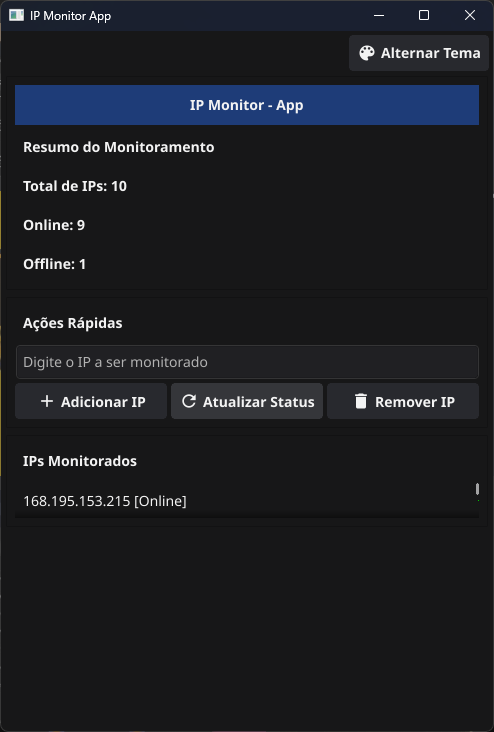
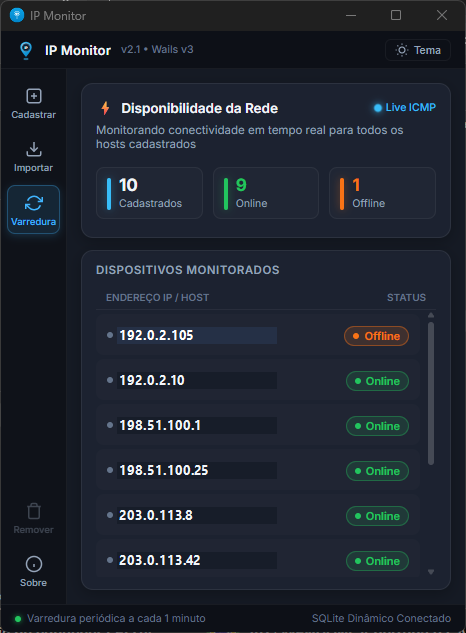
docs: update README.md and add dark/light screenshots with fictitious IPs

diff --git a/frontend/style.css b/frontend/style.css
@@ -623,11 +623,6 @@ body.light-theme .modal-close-x:hover {
     color: var(--text-secondary);
 }
 
-.input-row {
-    display: flex;
-    gap: 8px;
-}
-
 .input-wrapper {
     position: relative;
     display: flex;
@@ -712,19 +707,8 @@ body.light-theme .btn-modal-cancel:hover {
     cursor: not-allowed;
 }
 
-.btn-add {
-    background: rgba(56, 189, 248, 0.12);
-    border: 1px solid var(--accent-cyan);
-    color: var(--accent-cyan);
-}
-
-.btn-add:hover {
-    background: var(--accent-cyan);
-    color: #0d121c;
-}
-
 /* --------------------------------------------------------------------------
-   Card 4: Lista de Hosts Monitorados (Fluent Table)
+   Card 3: Lista de Hosts Monitorados (Fluent Table)
    -------------------------------------------------------------------------- */
 .hosts-section {
     flex: 1;
@@ -738,42 +722,6 @@ body.light-theme .btn-modal-cancel:hover {
     display: flex;
     align-items: center;
     justify-content: space-between;
-}
-
-.header-tools {
-    display: flex;
-    align-items: center;
-    gap: 6px;
-}
-
-.btn-text-tool {
-    background: transparent;
-    border: 1px solid var(--border-subtle);
-    border-radius: var(--radius-sm);
-    color: var(--text-secondary);
-    padding: 4px 8px;
-    font-size: 11px;
-    font-weight: 500;
-    cursor: pointer;
-    display: flex;
-    align-items: center;
-    gap: 4px;
-    transition: all 0.15s ease;
-}
-
-.btn-text-tool:hover:not(:disabled) {
-    color: var(--text-primary);
-    border-color: var(--border-focus);
-}
-
-.btn-tool-danger:hover:not(:disabled) {
-    color: var(--accent-red);
-    border-color: var(--accent-red);
-}
-
-.btn-text-tool:disabled {
-    opacity: 0.35;
-    cursor: not-allowed;
 }
 
 .hosts-table-head {

diff --git a/README.md b/README.md
@@ -1,54 +1,89 @@
 # IP Monitor App
 
-Aplicativo moderno, ultra-leve e portátil em Go para monitoramento de IPs e conectividade com interface nativa [Wails v3](https://v3.wails.io) e persistência local em SQLite3.
+Aplicativo moderno, ultra-leve e portátil em Go para monitoramento de IPs e conectividade de rede em tempo real, construído com interface nativa em [Wails v3](https://v3.wails.io) e persistência local com SQLite3.
 
-## Funcionalidades
-- **Executável Único e Portátil**: Frontend e backend 100% integrados em um binário autocontido (`ipMonitorApp.exe` de ~13 MB).
-- **Zero DLLs ou Pastas Externas**: Funciona sobre o WebView2 nativo do Windows, sem necessidade de DLLs soltas na pasta.
-- **SQLite Dinâmico**: Detecta automaticamente a pasta de execução e cria/utiliza o banco `ipmonitor.db` localmente.
-- **Importação de JSON**: Importação em lote a partir de arquivos `.json` exportados, com validação e sanitização automática de hosts/URLs.
-- **Varredura Ativa e Periódica**: Monitoramento com ICMP Ping em tempo real e atualização periódica em background.
-- **Temas Modernos**: Alternância instantânea entre Tema Escuro e Tema Claro com alto contraste.
-- **Ações Rápidas**: Adicionar, Atualizar Todos, Importar JSON e Remover hosts selecionados.
-
-## Requisitos
-- Go 1.25 ou superior
-- Compilador C (GCC / MinGW-w64) no Windows (necessário para compilar o driver CGO do SQLite)
-- WebView2 Runtime (nativo no Windows 10 e Windows 11)
-
-## Compilação e Build
-
-O projeto utiliza um **Makefile unificado** que detecta automaticamente o sistema operacional da máquina (Windows, Linux ou macOS) e ajusta as flags de compilação, o nome do executável e as ferramentas necessárias:
-
-```sh
-make build   # Detecta o SO e compila o binário único e portátil
-make test    # Executa a suíte de testes unitários
-make run     # Compila e executa o aplicativo
-make clean   # Remove o executável gerado
-make info    # Exibe o sistema operacional detectado e configurações de build
-```
-
-> **No Windows**: Se você usa o MinGW-w64 (WinLibs), você pode executar diretamente `mingw32-make` ou `make`. O Makefile já configura automaticamente os caminhos do GCC e as variáveis `CGO_ENABLED=1` e flags para ocultar o console (`-H=windowsgui`).
->
-> **No Linux/macOS**: O executável é gerado como `ipMonitorApp` e sem terminal acoplado extra.
-
-## Como usar
-
-1. **Adicionar IP:**
-   - Digite o endereço IP no campo e clique em "Adicionar" (ou pressione Enter).
-2. **Atualizar Status:**
-   - Clique em "Atualizar Todos" para disparar uma nova verificação via ICMP Ping.
-3. **Importar JSON:**
-   - Clique em "Importar JSON" e selecione o arquivo `.json` desejado.
-4. **Remover IP:**
-   - Clique em uma linha da tabela para selecionar o host e clique em "Remover".
-5. **Alternar Tema:**
-   - Clique no botão no canto superior direito para alternar entre os temas Claro e Escuro.
-
-## Banco de Dados e Portabilidade
-- O arquivo `ipmonitor.db` é resolvido dinamicamente no diretório onde o executável foi iniciado.
-- Você pode mover o `ipMonitorApp.exe` para qualquer pasta ou pendrive; o banco de dados acompanhará a pasta de execução.
+Inspirado no design minimalista e moderno do Microsoft PC Manager, o **IP Monitor App** entrega uma experiência de alto padrão visual com temas Claro e Escuro, animações fluidas e zero dependências externas.
 
 ---
 
-Desenvolvido com Go, Wails v3 e SQLite3.
+## 📸 Interface do Aplicativo
+
+<div align="center">
+  <table>
+    <tr>
+      <td align="center"><b>Tema Escuro (Dark Mode)</b></td>
+      <td align="center"><b>Tema Claro (Light Mode)</b></td>
+    </tr>
+    <tr>
+      <td><img src="internal/assets/screenshot-dark.png" alt="IP Monitor - Tema Escuro" width="370" /></td>
+      <td><img src="internal/assets/screenshot-light.png" alt="IP Monitor - Tema Claro" width="370" /></td>
+    </tr>
+  </table>
+</div>
+
+---
+
+## ✨ Funcionalidades Principais
+
+- **Executável Único e Portátil**: Frontend e backend 100% integrados em um binário autocontido (`ipMonitorApp.exe` de ~13 MB).
+- **Zero DLLs ou Pastas Externas**: Utiliza o WebView2 nativo do Windows, sem necessidade de arquivos `.dll` adicionais na pasta.
+- **SQLite Dinâmico e Portátil**: Detecta automaticamente a pasta de execução e cria/utiliza o banco `ipmonitor.db` localmente.
+- **Filtro Inteligente de Prioridade**: Hosts **Offline** aparecem automaticamente no topo da lista para atenção e diagnóstico imediatos.
+- **Identificação Visual Suave**: Indicadores de status refinados, incluindo destaque suave em tom vermelho-alaranjado para hosts inacessíveis.
+- **Cadastro com Modal Bloqueante**: Diálogo modal sobreposto na seção de disponibilidade, impedindo cliques externos e garantindo foco total no cadastro.
+- **Barra Lateral com Ações Rápidas**:
+  - **Cadastrar**: Abertura rápida do modal de novo host com placeholder orientativo (`Ex: 192.168.1.1 ou host.local`).
+  - **Importar**: Leitura em lote de arquivos `.json` com validação e sanitização automática de IPs/hosts.
+  - **Varredura**: Disparo manual de ICMP Ping imediato com animação rotativa no ícone e feedback visual no status.
+  - **Remover**: Exclusão de host selecionado com confirmação imediata.
+- **Varredura Automática em Background**: Verificação periódica a cada 1 minuto mantendo o painel de disponibilidade sempre atualizado.
+- **Temas Claro e Escuro**: Alternância instantânea com contraste polido e compatibilidade nativa com o Windows 10/11.
+
+---
+
+## 🛠 Requisitos de Desenvolvimento
+
+- **Go 1.25** ou superior
+- **Compilador C (GCC / MinGW-w64)** no Windows (necessário para o driver CGO do SQLite3)
+- **WebView2 Runtime** (já incluído nativamente no Windows 10 e Windows 11)
+
+---
+
+## 🚀 Compilação e Execução
+
+O projeto conta com um **Makefile unificado** multiplataforma que detecta automaticamente o sistema operacional (Windows, Linux ou macOS):
+
+```sh
+make build   # Compila o executável único e portátil
+make test    # Executa todos os testes unitários do serviço
+make run     # Compila e inicia o aplicativo imediatamente
+make clean   # Remove executáveis e resíduos temporários de build
+make info    # Exibe dados do ambiente, SO detectado e flags de compilação
+```
+
+> 💡 **Dica no Windows**: Usando MinGW-w64 (WinLibs), você pode executar `mingw32-make` ou `make`. As flags `-H=windowsgui` são aplicadas automaticamente para compilar sem console acoplado.
+
+---
+
+## 📖 Como Usar
+
+1. **Cadastrar IP ou Hostname**:
+   - Clique em **Cadastrar** na barra lateral. O modal central sobreposto será exibido com a interface principal bloqueada. Digite o endereço e pressione `Enter` ou clique em `Cadastrar`.
+2. **Realizar Varredura Manual**:
+   - Clique no botão **Varredura** na barra lateral. O ícone girará enquanto os pings ICMP são emitidos e a lista e os cards de disponibilidade serão atualizados.
+3. **Importar Lista em Lote**:
+   - Clique em **Importar** na barra lateral e selecione o arquivo `.json` contendo a lista de hosts.
+4. **Remover Host**:
+   - Selecione a linha do host desejado na lista e clique no botão **Remover** na barra lateral.
+5. **Alternar Tema**:
+   - Clique no botão **Tema** no canto superior direito para alternar dinamicamente entre os modos Escuro e Claro.
+
+---
+
+## 💾 Banco de Dados Local
+
+O banco de dados SQLite (`ipmonitor.db`) é resolvido dinamicamente no diretório onde o executável se encontra. O aplicativo pode ser copiado para qualquer diretório ou pendrive sem perder suas configurações e histórico.
+
+---
+
+Desenvolvido com **Go**, **Wails v3** e **SQLite3**.
